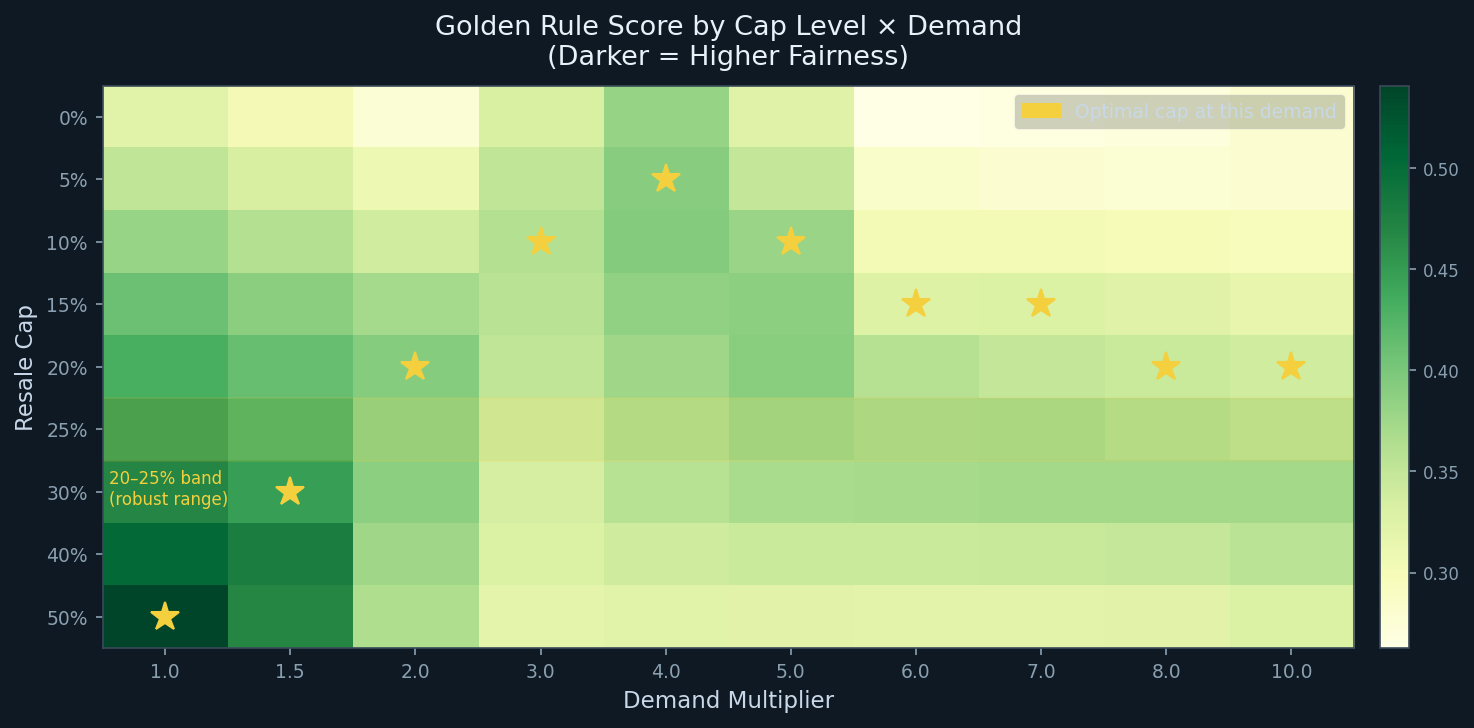
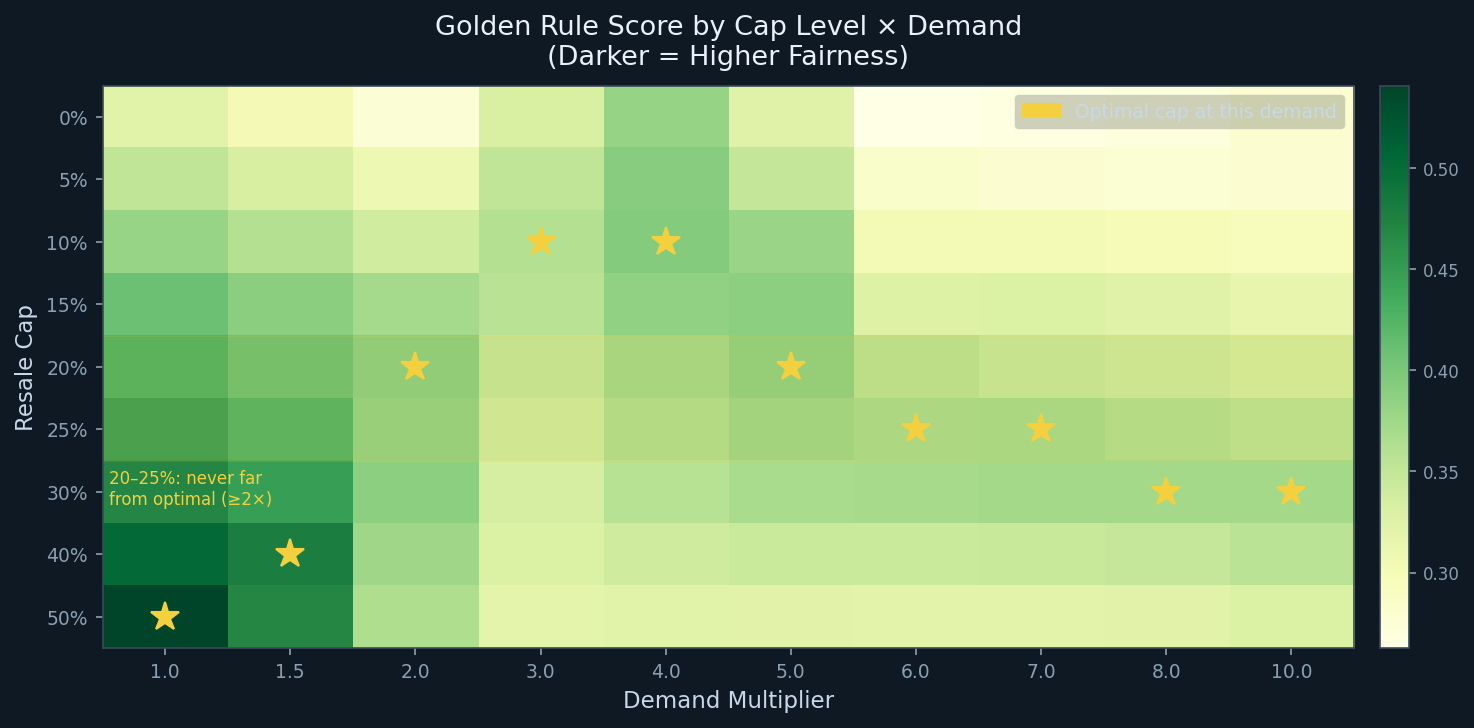
Deck consistency pass for Friday share: fix stale claims, reorder, harmonize band language
- Slide 5: '30 runs/4 regimes' -> 100 runs, four regime families; table cap
  row now 0-50% tested (10-30% optimal by demand)
- Slide 7: retitle to '10-30% band / fixed 20% never far from optimal';
  footer states the true gap (<=0.04 GR at demand >=2x) instead of the
  overclaimed 0.01-0.02; chart2 heatmap stars now computed from the CSV
  (were hardcoded April optima, wrong at 6 of 10 demand levels)
- Slide 9: retitle away from false 'All Three Lenses Agree'; footer states
  the accepted fan-price-lens divergence instead of calling it an artifact;
  chart4 subtitle no longer says 'Pending Scalper-Exit Modeling'
- Slide 10: footer 29->33 params + honest dark_leakage_base caveat; chart5
  title no longer claims dark params don't move the optimum, false LOW-
  sensitivity annotation removed, legend color keys fixed (util_w/agent/
  exit now match the CSV groups instead of silently falling back to gray)
- Slide 17 (now 19): filled [Contact / Next Steps] placeholder with byline;
  footer 30x12 -> 100x16 rulesets
- Reorder: joint-uncertainty robustness slide joins the evidence cluster
  (now 11); UK hook penultimate (18); closing quote last (19)
- README: headline band harmonized (10-30% general, 20% shorthand, 10-20%
  under UK capped fees) and states the fan-lens divergence
- POLICY_BRIEF.md verified against results of record; no changes needed
- Invariants 8/8; PDF regenerated; visual QA on all edited slides

diff --git a/generate_charts.py b/generate_charts.py
@@ -99,8 +99,13 @@ ax.set_title("Golden Rule Score by Cap Level × Demand\n(Darker = Higher Fairnes
              fontsize=13, color="#E8F0F8", pad=10)
 
 # Annotate optima
-opt_caps = {1.0: 50, 1.5: 30, 2.0: 20, 3.0: 10, 4.0: 5, 5.0: 10,
-            6.0: 15, 7.0: 15, 8.0: 20, 10.0: 20}
+# Stars computed from the data (2026-07-16) — previously a hardcoded dict of
+# April-era optima that silently went stale as the model evolved. Now always
+# reflects the CSV of record.
+opt_caps = {
+    d: CAP_VALS[BOUNDED.index(max(BOUNDED, key=lambda cs: get(cs, d, "gr_popwt") or 0))]
+    for d in DEMANDS
+}
 for d_idx, d in enumerate(DEMANDS):
     opt = opt_caps.get(d)
     if opt in CAP_VALS:
@@ -116,8 +121,8 @@ cbar.ax.yaxis.set_tick_params(color="#8AA0B0")
 plt.setp(cbar.ax.yaxis.get_ticklabels(), color="#8AA0B0", fontsize=8)
 
 # Highlight 20-25% band
-ax.axhspan(4.5, 5.5, color="#F4D03F", alpha=0.12, zorder=0)
-ax.annotate("20–25% band\n(robust range)", xy=(-0.5, 5.0),
+ax.axhspan(3.5, 5.5, color="#F4D03F", alpha=0.12, zorder=0)
+ax.annotate("20–25%: never far\nfrom optimal (≥2×)", xy=(-0.5, 5.0),
             xytext=(-0.45, 6.2), color="#F4D03F", fontsize=8,
             ha="left")
 
@@ -200,7 +205,7 @@ ax.annotate("20–25%: PopWt &\nSystem converge",
 
 ax.set_xlabel("Resale Cap (%)", fontsize=11)
 ax.set_ylabel("Golden Rule Score", fontsize=11)
-ax.set_title("Three-Lens Convergence at Demand 5×\n(Fan Lens Pending Scalper-Exit Modeling)",
+ax.set_title("Three-Lens View at Demand 5×\n(PopWt & System Converge on 20–25%; Fan-Price Lens Prefers the Tightest Cap)",
              fontsize=13, color="#E8F0F8", pad=12)
 ax.legend(loc="upper right", framealpha=0.15, fontsize=9)
 ax.grid(True)
@@ -228,12 +233,16 @@ params = [r["param"] for r in top]
 scores = [float(r["sensitivity_score"]) for r in top]
 groups = [r["group"] for r in top]
 
+# Keys must match the `group` column values in sensitivity_rankings.csv
+# (fixed 2026-07-16: previously "utility_w"/"behavioral" never matched the
+# CSV's "util_w"/"agent", so those bars silently fell back to gray).
 group_colors = {
     "gr_w":       "#F4D03F",
     "structural": "#5BA4CF",
     "dark":       "#E05C5C",
-    "utility_w":  "#3D9B70",
-    "behavioral": "#E08B3A",
+    "util_w":     "#3D9B70",
+    "agent":      "#E08B3A",
+    "exit":       "#9B59B6",
 }
 bar_colors = [group_colors.get(g, "#888") for g in groups]
 
@@ -241,22 +250,17 @@ fig, ax = plt.subplots(figsize=(10, 5.5))
 bars = ax.barh(params[::-1], scores[::-1], color=bar_colors[::-1],
                edgecolor="#0F1923", linewidth=0.5)
 
-# Add a "dark market zone" annotation
-dark_params = [p for p, g in zip(params, groups) if g == "dark"]
-dark_indices = [params[::-1].index(p) for p in dark_params if p in params[::-1]]
-
-ax.axvline(0.3, color="#888", linestyle=":", alpha=0.5, linewidth=1)
-ax.annotate("Dark market parameters\nhave LOW sensitivity\n— policy robust to\nunsourced estimates",
-            xy=(0.05, 1.5), xytext=(0.32, 3),
-            color="#E05C5C", fontsize=8.5,
-            arrowprops=dict(arrowstyle="->", color="#E05C5C", lw=1))
+# No in-chart annotation (2026-07-16): the earlier "dark params have LOW
+# sensitivity" callout was false under current rankings (dark_leakage_base is
+# top-10 on PopWt/System and can shift the in-band optimum), and any replacement
+# text overlapped the bars. The slide footer carries the honest caveat instead.
 
 legend_patches = [mpatches.Patch(color=v, label=k.replace("_", " ").title())
                   for k, v in group_colors.items()]
 ax.legend(handles=legend_patches, loc="lower right", framealpha=0.15, fontsize=9)
 ax.set_xlabel("Sensitivity Score", fontsize=11)
-ax.set_title("Parameter Sensitivity — Policy Robust Across All Key Knobs\n"
-             "Dark Market Parameters Do Not Move the Optimal Cap",
+ax.set_title("Parameter Sensitivity — No Perturbation Leaves the Bounded Regime\n"
+             "Scoring Weights & Scalper Decay Dominate; Dark-Market Params Mid-Table",
              fontsize=13, color="#E8F0F8", pad=12)
 ax.grid(True, axis="x")
 fig.tight_layout()

diff --git a/README.md b/README.md
@@ -7,11 +7,17 @@ rulesets by a "would you accept these rules not knowing your position?"
 composite (floor / equality / average weighted), alongside standard welfare
 criteria (Rawlsian maximin, Harsanyi utilitarian, Pareto screening).
 
-**Headline finding to date:** a bounded resale cap in the ~15–25% band
-beats Status Quo, Dynamic Pricing, and UK-style face-value-only resale on
-fan-welfare lenses across demand levels — and the defensible band falls out
-of the secondary-platform fee structure (seller-side fee makes sub-~17.6%
-caps loss-making for legal resale) rather than being tuned to a target.
+**Headline finding to date:** a bounded resale cap beats Status Quo,
+Dynamic Pricing, and UK-style face-value-only resale on the
+population-weighted and system welfare lenses across demand levels. The
+optimal cap is demand-dependent within a **10–30% band** (a fixed 20% cap
+is never far from the per-demand optimum once markets are oversubscribed);
+under a UK-2026-style capped-fee regime the defensible band is **10–20%**.
+The band falls out of the secondary-platform fee structure (seller-side
+fee makes sub-~17.6% caps loss-making for legal resale) rather than being
+tuned to a target. The fan-price lens alone prefers the tightest cap —
+an accepted divergence (buyers prefer cheaper); the policy case rests on
+system function, not on out-cheapening face value.
 See `gre_sim.py`'s embedded changelog for the full audit history (A1–A6,
 B1, C1–C2, E1 fixes).
 
